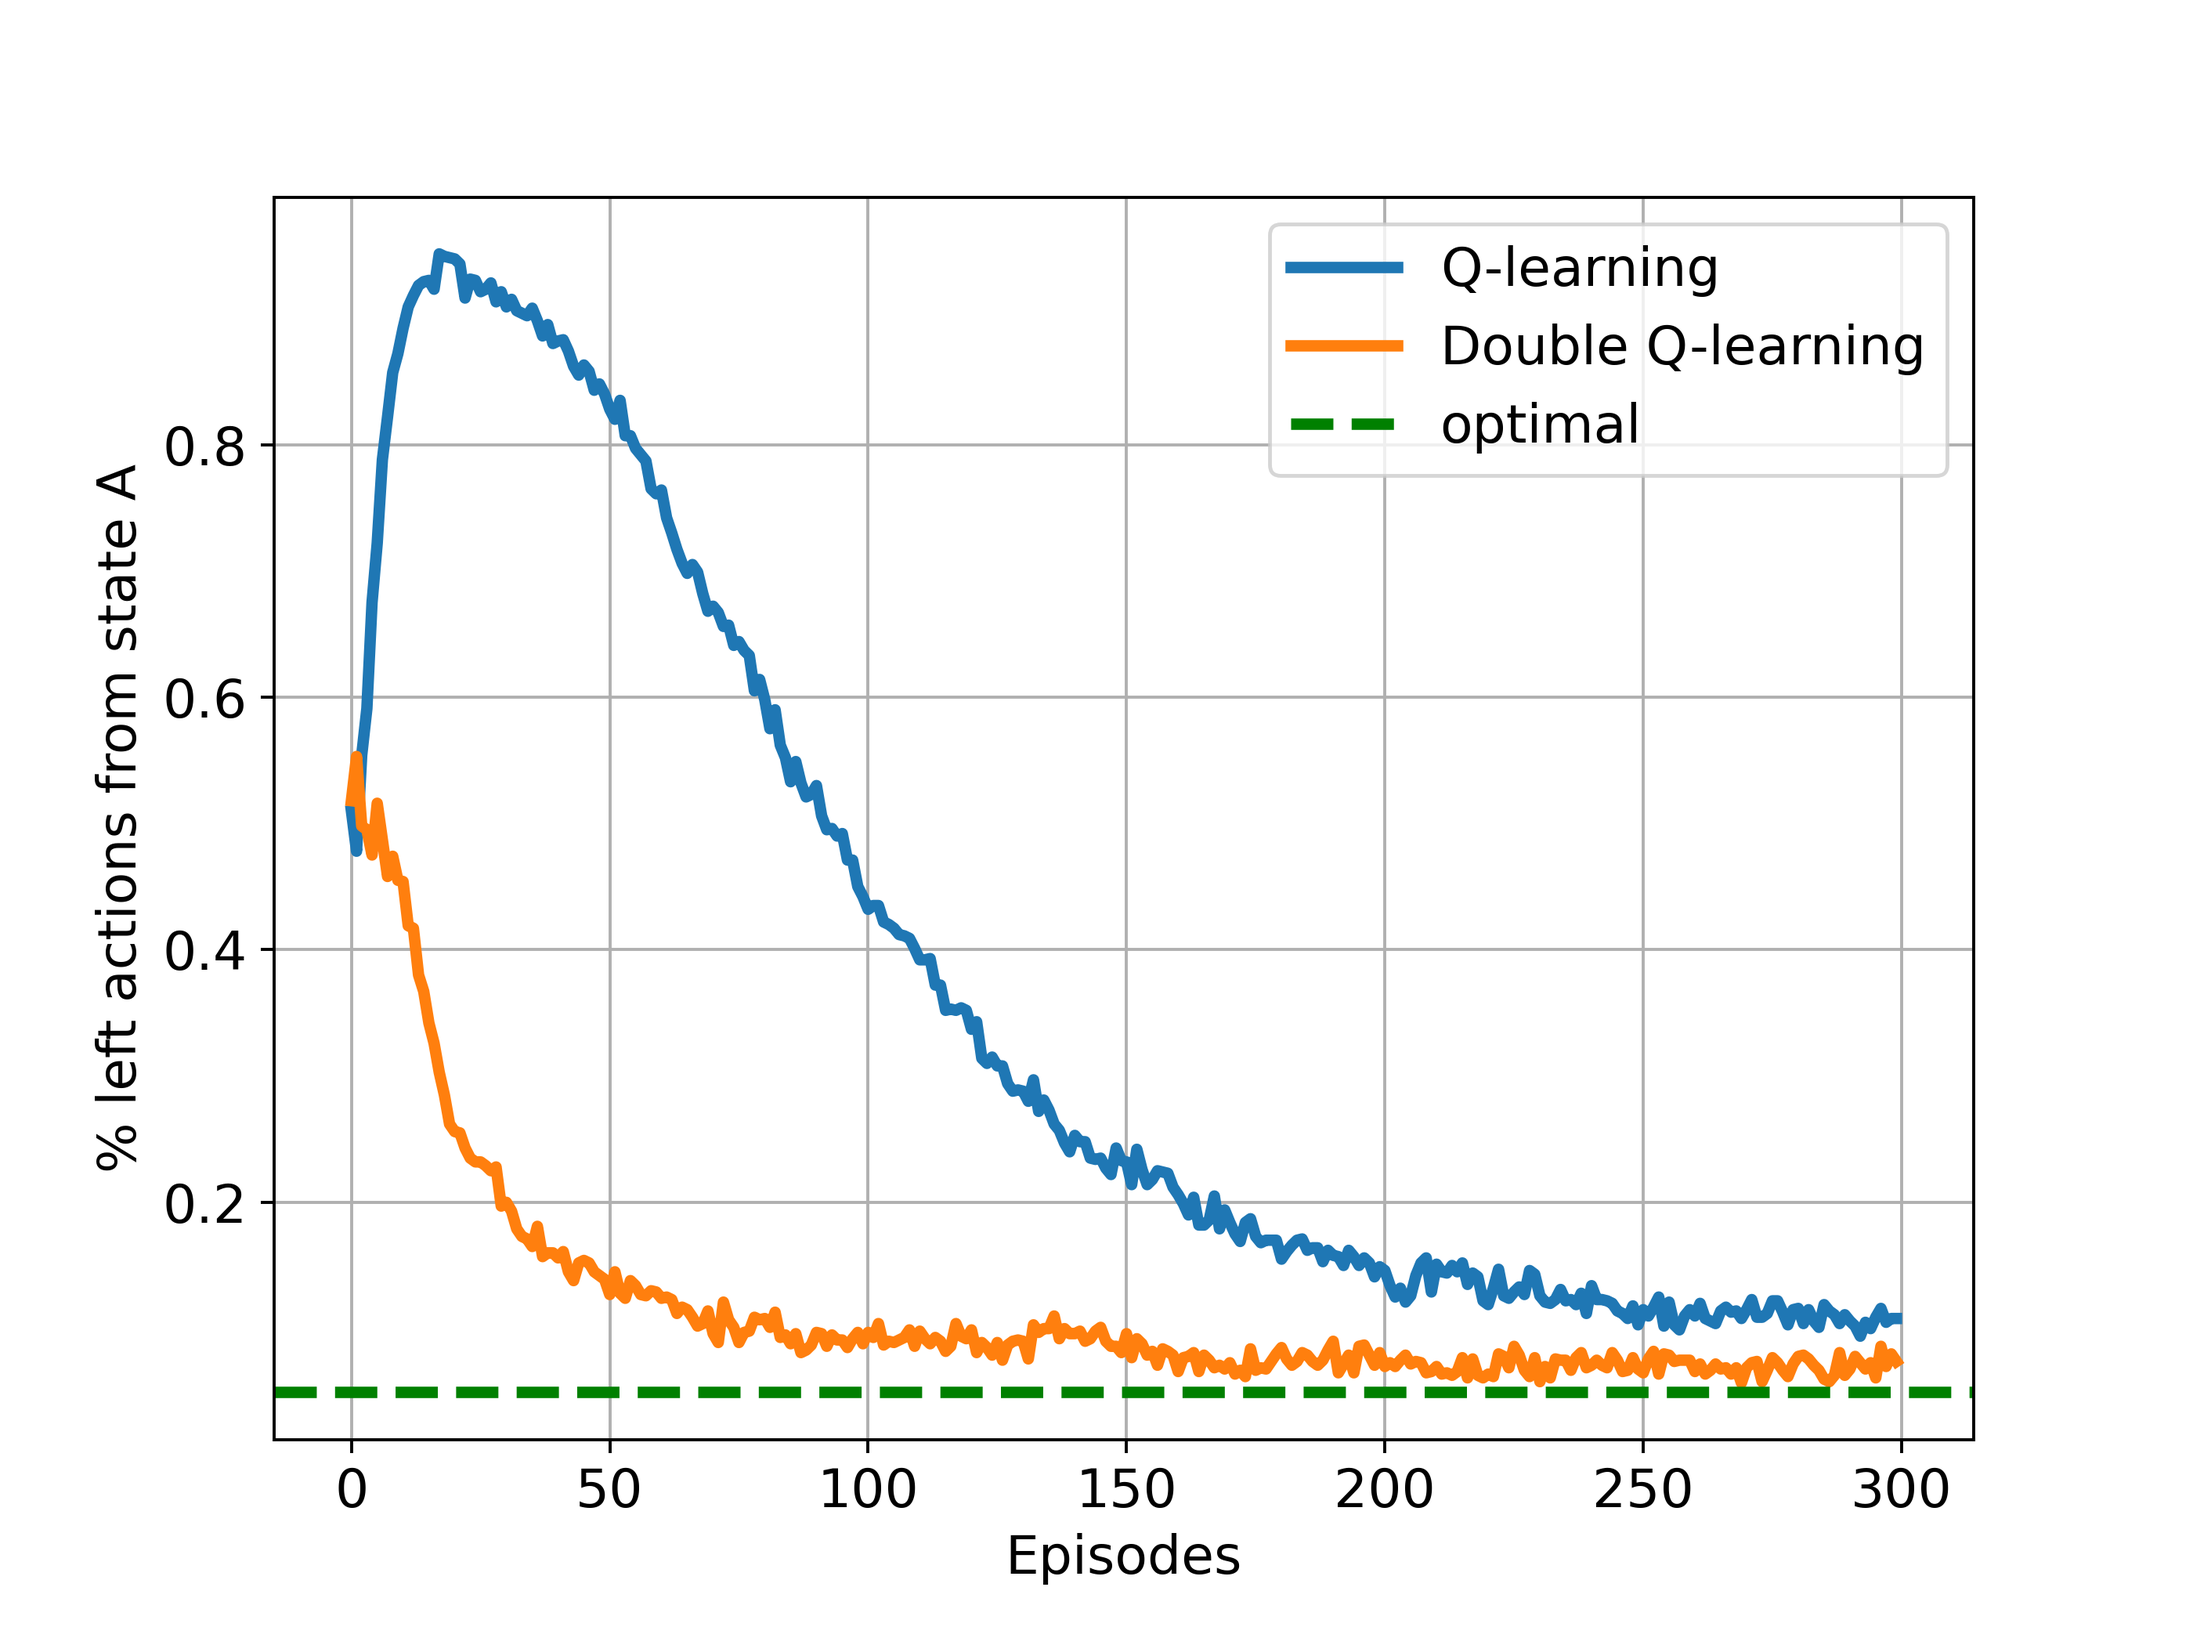
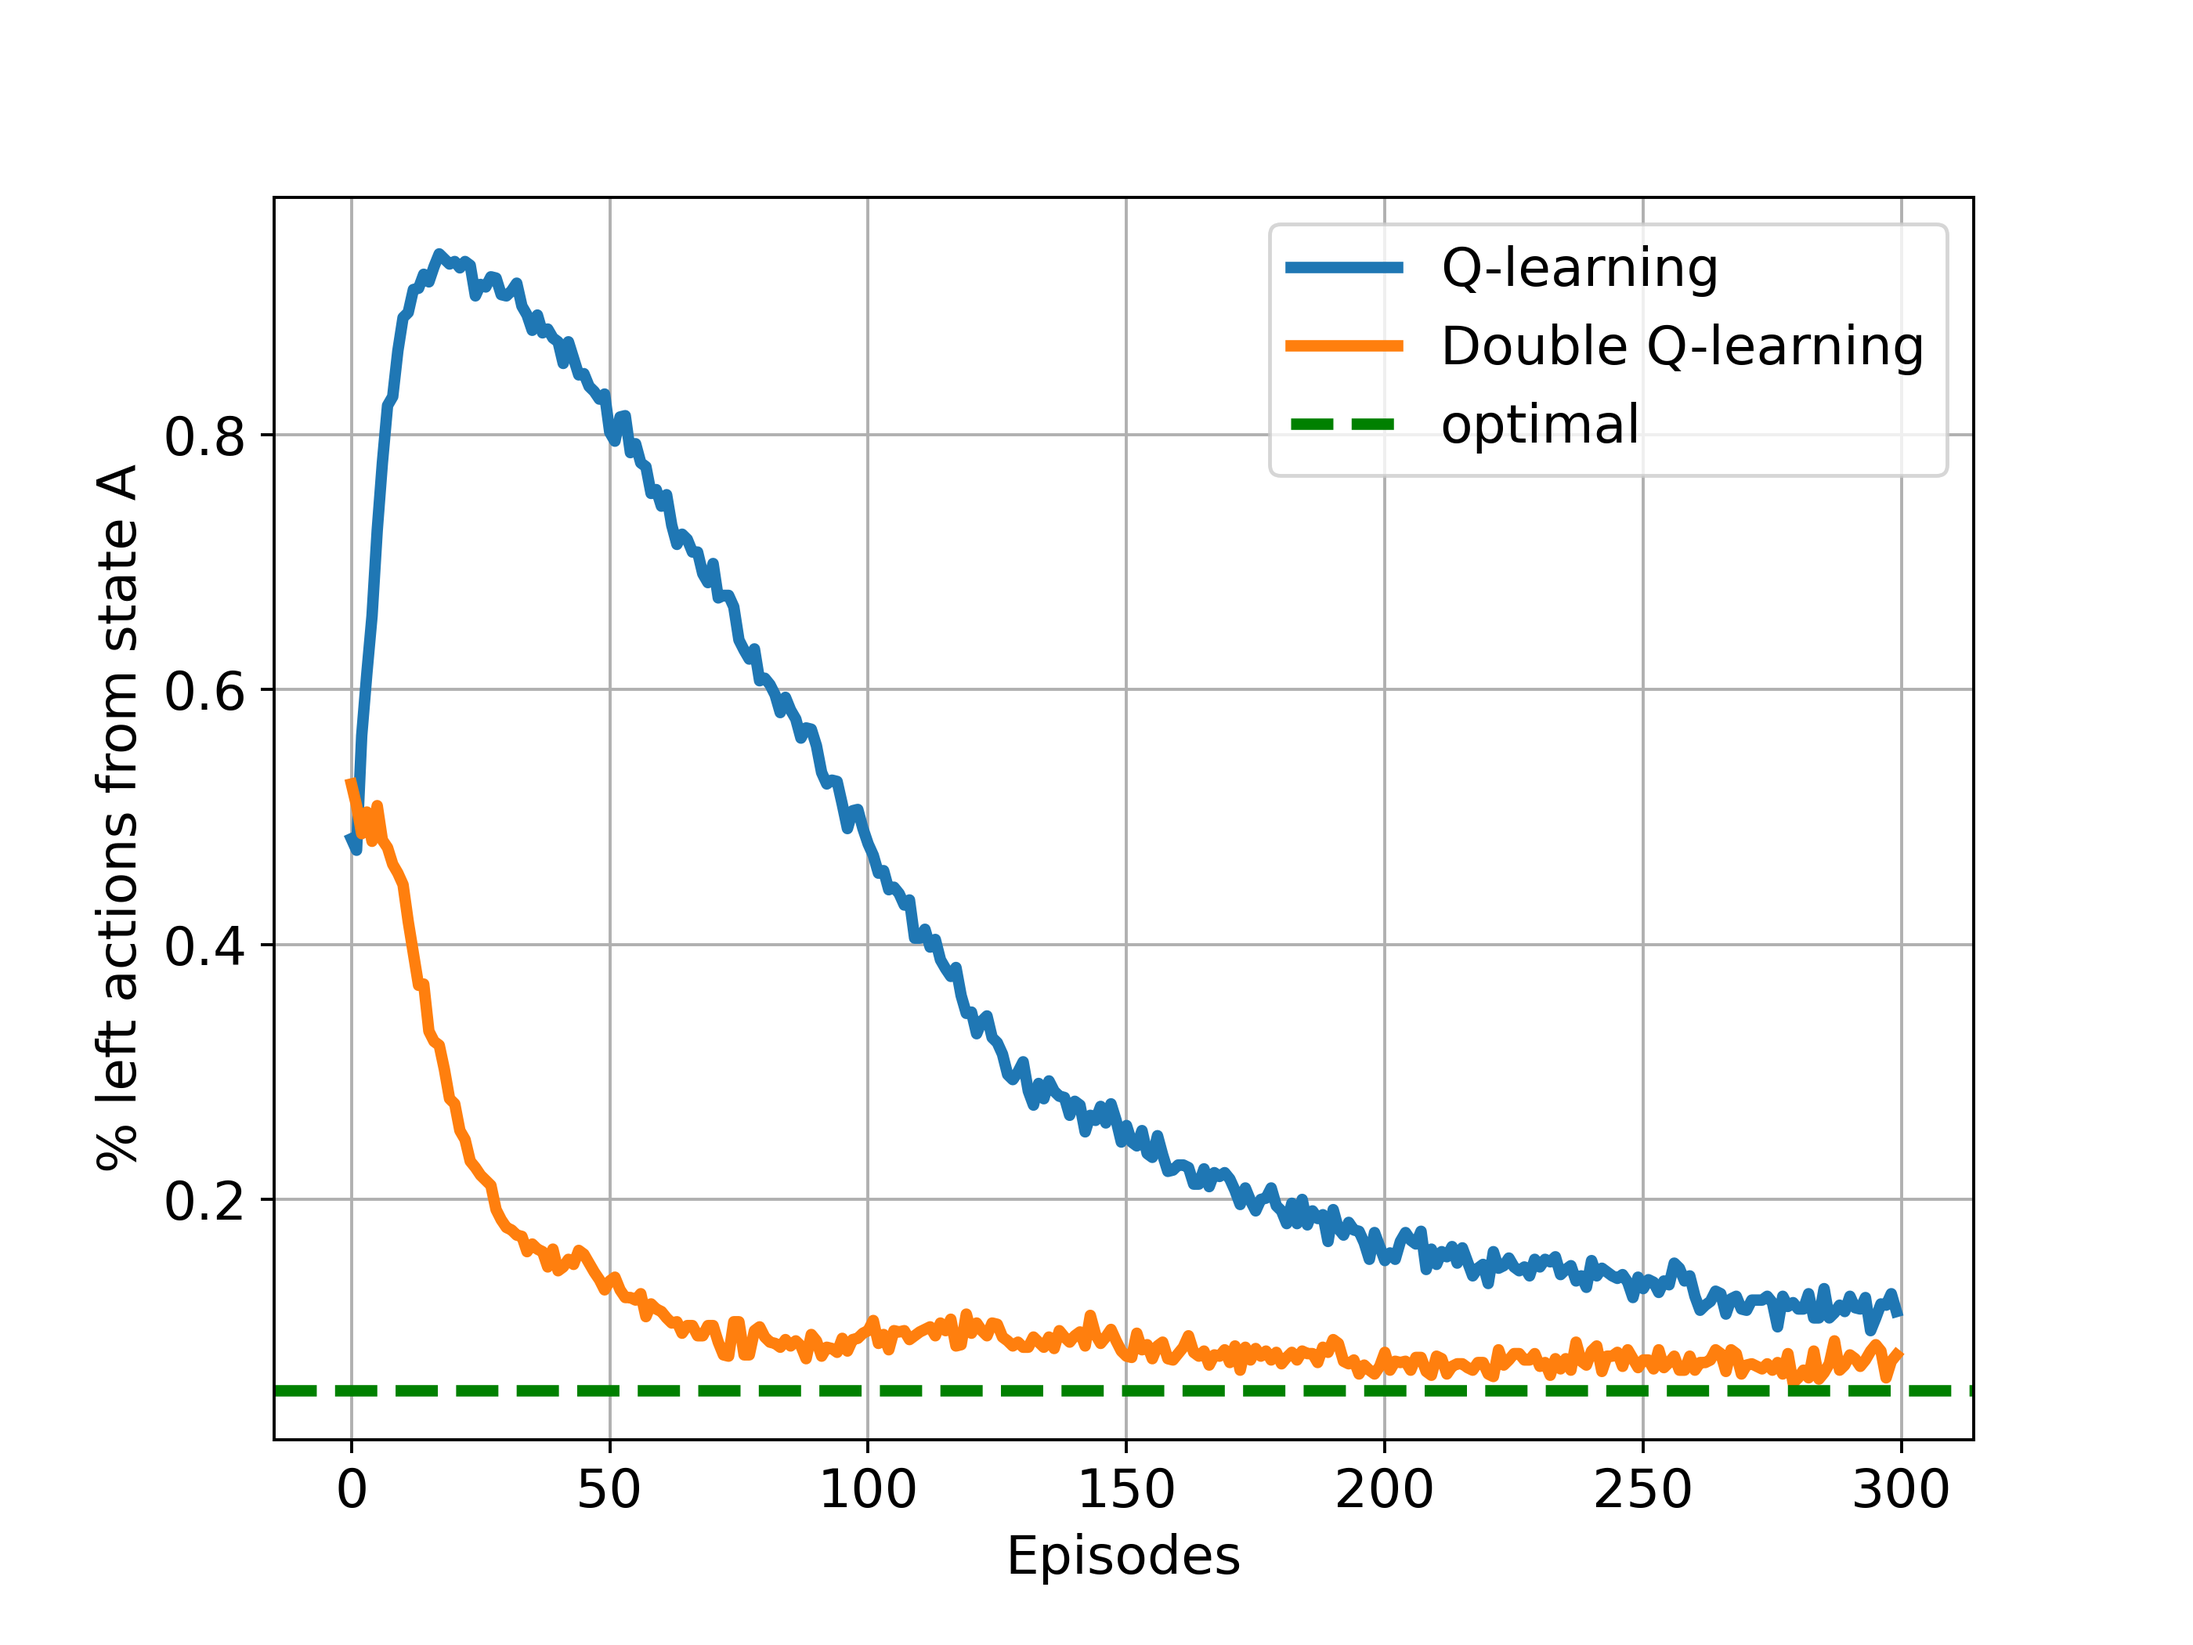
doubleq

Changed region(s): [[0.0621, 0.3095, 0.9011, 0.8667], [0.0621, 0.2167, 0.5593, 0.3095], [0.1864, 0.1548, 0.2486, 0.2167]]

diff --git a/_pages/td.md b/_pages/td.md
@@ -920,11 +920,12 @@ The above corresponds to Figure 6.3: because the state transitions are all deter
 
 
     states: two non-terminal states A,B
-    actions: {left, right}
+    actions in state A: {left, right}
+    actions in state B: like range(0,10)
 
     episodes always start in A
     A - right - terminal,r=0
-    A - left - B - r=N(-0.1,1) - terminal
+    A - left - B - terminal,r=N(-0.1,1)
 
     The expected return for any traj starting with 'left' is -0.1
     thus taking 'left' in A is always a mistake  
@@ -993,10 +994,10 @@ def run_q(double=False,n_eps=300,eps=.1,lr=0.1,gm=1.):
             else:
                 a=e_greedy(eps,[q1+q2 for q1,q2 in zip(Q1,Q2)],s)
 
-            if s==A and a==1:
-                left_cnt+=1
             if s==A:
                 stp_cnt+=1
+                if a==1:
+                    left_cnt+=1
 
             s_,r,done=step(s,a)
 
